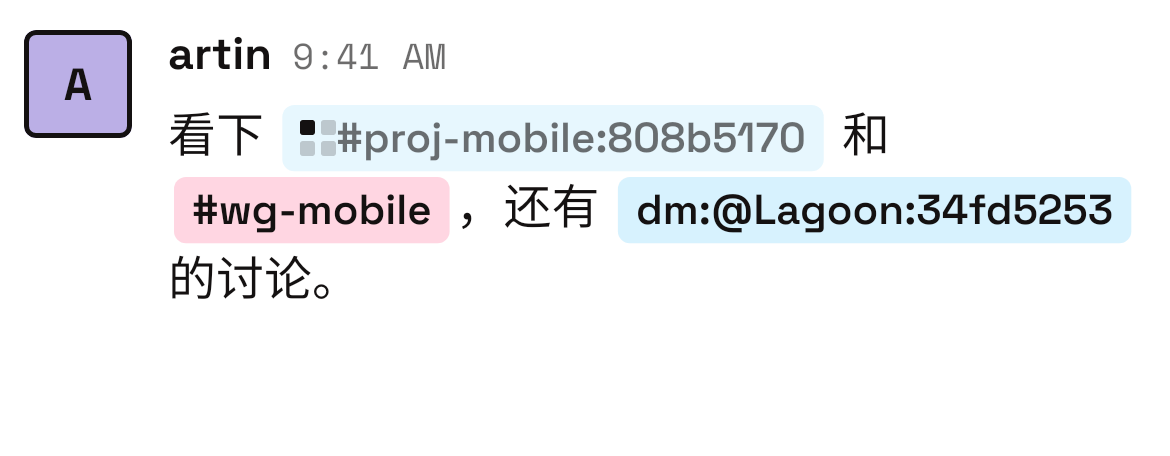
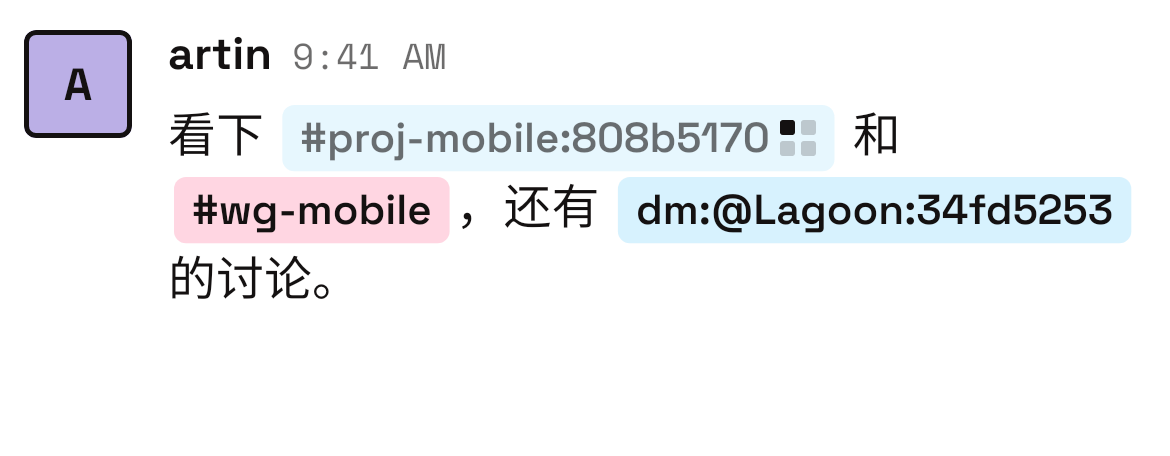
fix(markdown): a busy reference chip's spinner follows its label
artin 2026-10-29: the loading spinner goes after the label, as the web's
trailing spinner (#3914 put it first).

Changed region(s): [[0.2462, 0.2456, 0.7692, 0.3684]]

diff --git a/compose/shared/src/commonMain/kotlin/build/raft/app/markdown/RaftMarkdown.kt b/compose/shared/src/commonMain/kotlin/build/raft/app/markdown/RaftMarkdown.kt
@@ -1162,8 +1162,8 @@ private fun AnnotatedString.Builder.appendRaftRichTextToken(
             return
         }
     }
-    // artin 10-29: a chip whose open is in flight is busy — the spinner leads its label inside the
-    // box and the chip is dimmed (raft-ui `--opacity-dimmed`, busy controls), until it settles.
+    // artin 10-29: a chip whose open is in flight is busy — the spinner follows its label inside the
+    // box (as the web's trailing spinner) and the chip is dimmed (raft-ui `--opacity-dimmed`, busy controls), until it settles.
     val busy = token.active && token.trailingIndicator.isEmpty()
     val boxStyle = raftMarkdownRichTextTagInlineBoxStyle(token.chrome)?.let { if (busy) it.raftBusyDimmed() else it }
     withRaftInlineChipGaps(boxStyle) {
@@ -1182,12 +1182,13 @@ private fun AnnotatedString.Builder.appendRaftRichTextToken(
             withRaftInlineBox(boxStyle) {
                 val fontSizeStyle = raftMarkdownRichTextTagFontSizeStyle(token.chrome)
                 val appendChipText: AnnotatedString.Builder.() -> Unit = {
-                    if (busy) {
-                        appendInlineContent(raftMarkdownActionSpinnerInlineId(action.id), "\uFFFC")
-                        // A word joiner keeps the spinner and the label on one line.
-                        append(RaftMarkdownTaskChipWordJoiner)
-                    }
                     append(label)
+                    if (busy) {
+                        // A word joiner keeps the label and the spinner on one line.
+                        append(RaftMarkdownTaskChipWordJoiner)
+                        append(" ")
+                        appendInlineContent(raftMarkdownActionSpinnerInlineId(action.id), "\uFFFC")
+                    }
                 }
                 if (fontSizeStyle == null) appendChipText() else withStyle(fontSizeStyle) { appendChipText() }
             }
